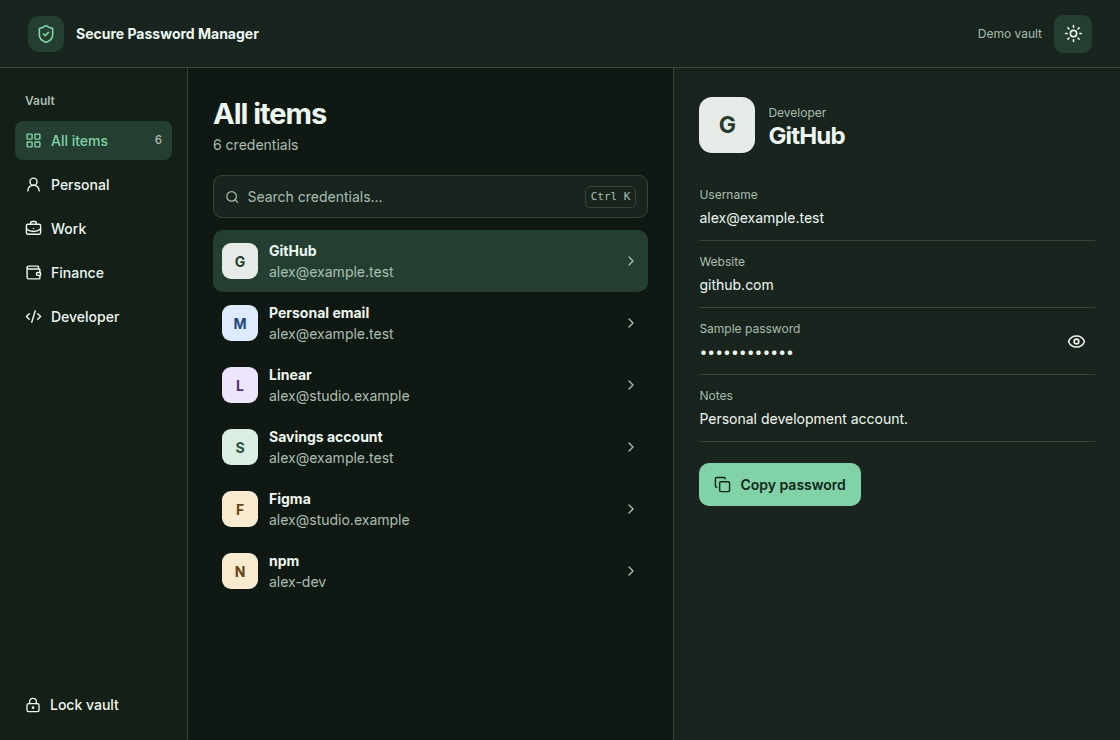
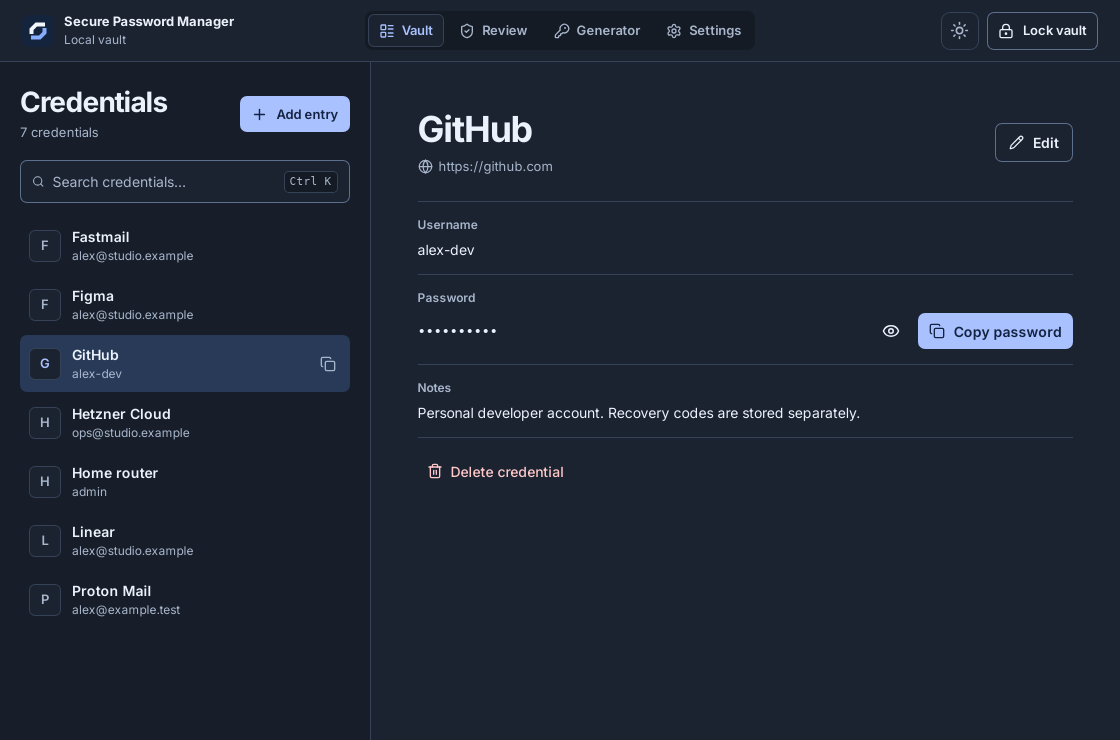
Sync the 1.0 release changes back to develop (#37)
Bring the 1.0 desktop version, installation and upgrade guide, reference
screenshot, and Ubuntu package checks from #36 back to the integration
branch. The branch has the same tracked files as the release commit on
`main`.

Merge after the stable GitHub release is published so the default
branch’s installation guide points to an available package.

diff --git a/desktop/README.md b/desktop/README.md
@@ -1,17 +1,21 @@
 # Desktop app
 
-## Install on Ubuntu
+## Install or upgrade on Ubuntu
 
-The desktop beta targets Ubuntu 24.04 LTS on amd64. Download the `.deb` and `SHA256SUMS` from [GitHub Releases](https://github.com/santipvz/SecurePasswordManager/releases). Verify the download and install it from the directory containing both files.
+The stable desktop app supports Ubuntu 24.04 LTS on amd64. Download the `.deb` and `SHA256SUMS` from [GitHub Releases](https://github.com/santipvz/SecurePasswordManager/releases). Verify the download and install it from the directory containing both files.
 
 ```sh
 sha256sum --check SHA256SUMS &&
-  gh attestation verify secure-password-manager_0.1.1_amd64.deb \
-    --repo santipvz/SecurePasswordManager --source-ref refs/heads/main &&
-  sudo apt install ./secure-password-manager_0.1.1_amd64.deb
+  gh attestation verify secure-password-manager_1.0.0_amd64.deb \
+    --repo santipvz/SecurePasswordManager \
+    --signer-workflow santipvz/SecurePasswordManager/.github/workflows/desktop.yml \
+    --source-ref refs/heads/main &&
+  sudo apt install ./secure-password-manager_1.0.0_amd64.deb
 ```
 
 Open **Secure Password Manager** from the applications menu as your normal user. The package includes the vault process and its Python runtime. Use `sudo apt remove secure-password-manager` to uninstall. Ubuntu's package manager leaves vaults and backups in your home directory during upgrades and removal. The default vault lives at `${XDG_DATA_HOME:-$HOME/.local/share}/SecurePasswordManager/vault.spm`.
+
+To upgrade from the beta, save an encrypted backup in **Settings**, close the app, and install the new package using the same command. Open your existing vault with its master password or registered YubiKey. If you use a custom location, choose **Open vault file** and select the existing `.spm` file.
 
 Use a USB YubiKey that supports FIDO2 and the `hmac-secret` extension. Ubuntu's udev and logind grant device access to the active local desktop user for recognized FIDO keys. If the app cannot see the key, reconnect it in the active desktop session and check its USB access using [Yubico's Linux device permissions guide](https://developers.yubico.com/yubikey-manager/Device_Permissions.html). Run the app under your desktop account.
 
@@ -67,4 +71,4 @@ npm --prefix desktop run tauri -- bundle --config src-tauri/tauri.ubuntu.conf.js
   --features custom-protocol --bundles deb --ci --no-sign
 ```
 
-The unsigned test package is in `desktop/src-tauri/target/release/bundle/deb/` and is available as the `ubuntu-24.04-amd64-deb` artifact from the Desktop workflow. The workflow installs it in a clean Ubuntu 24.04 container, opens its application menu entry as a standard user, and checks that an upgrade and purge preserve the synthetic vault and its encrypted backup. Test a physical YubiKey in a local Ubuntu desktop session with a disposable vault by registering the key, locking, and unlocking again with the key.
+The unsigned test package is in `desktop/src-tauri/target/release/bundle/deb/` and is available as the `ubuntu-24.04-amd64-deb` artifact from the Desktop workflow. The workflow installs it in a clean Ubuntu 24.04 container, opens its application menu entry as a standard user, and checks that an upgrade and purge preserve the synthetic vault and its encrypted backup. To test migration from the published beta, pass its verified `.deb` as the second argument to `desktop/scripts/verify_ubuntu_deb.sh` in the container. Test a physical YubiKey in a local Ubuntu desktop session with a disposable vault by registering the key, locking, and unlocking again with the key.

diff --git a/README.md b/README.md
@@ -4,7 +4,9 @@ An offline password generator and encrypted vault for credentials, websites, and
 
 ## Desktop app for Ubuntu
 
-The first desktop beta targets Ubuntu 24.04 LTS on amd64. Download the `.deb` and `SHA256SUMS` from [GitHub Releases](https://github.com/santipvz/SecurePasswordManager/releases). See the [desktop guide](desktop/README.md) for installation, YubiKey unlock, and encrypted backups.
+The desktop installer targets Ubuntu 24.04 LTS on amd64. Download the `.deb` and `SHA256SUMS` from [GitHub Releases](https://github.com/santipvz/SecurePasswordManager/releases). The [desktop guide](desktop/README.md) covers verification, installation, and encrypted backups.
+
+![Secure Password Manager showing an unlocked vault with example credentials and a hidden password](desktop/docs/vault-dark.png)
 
 ## Python edition
 
